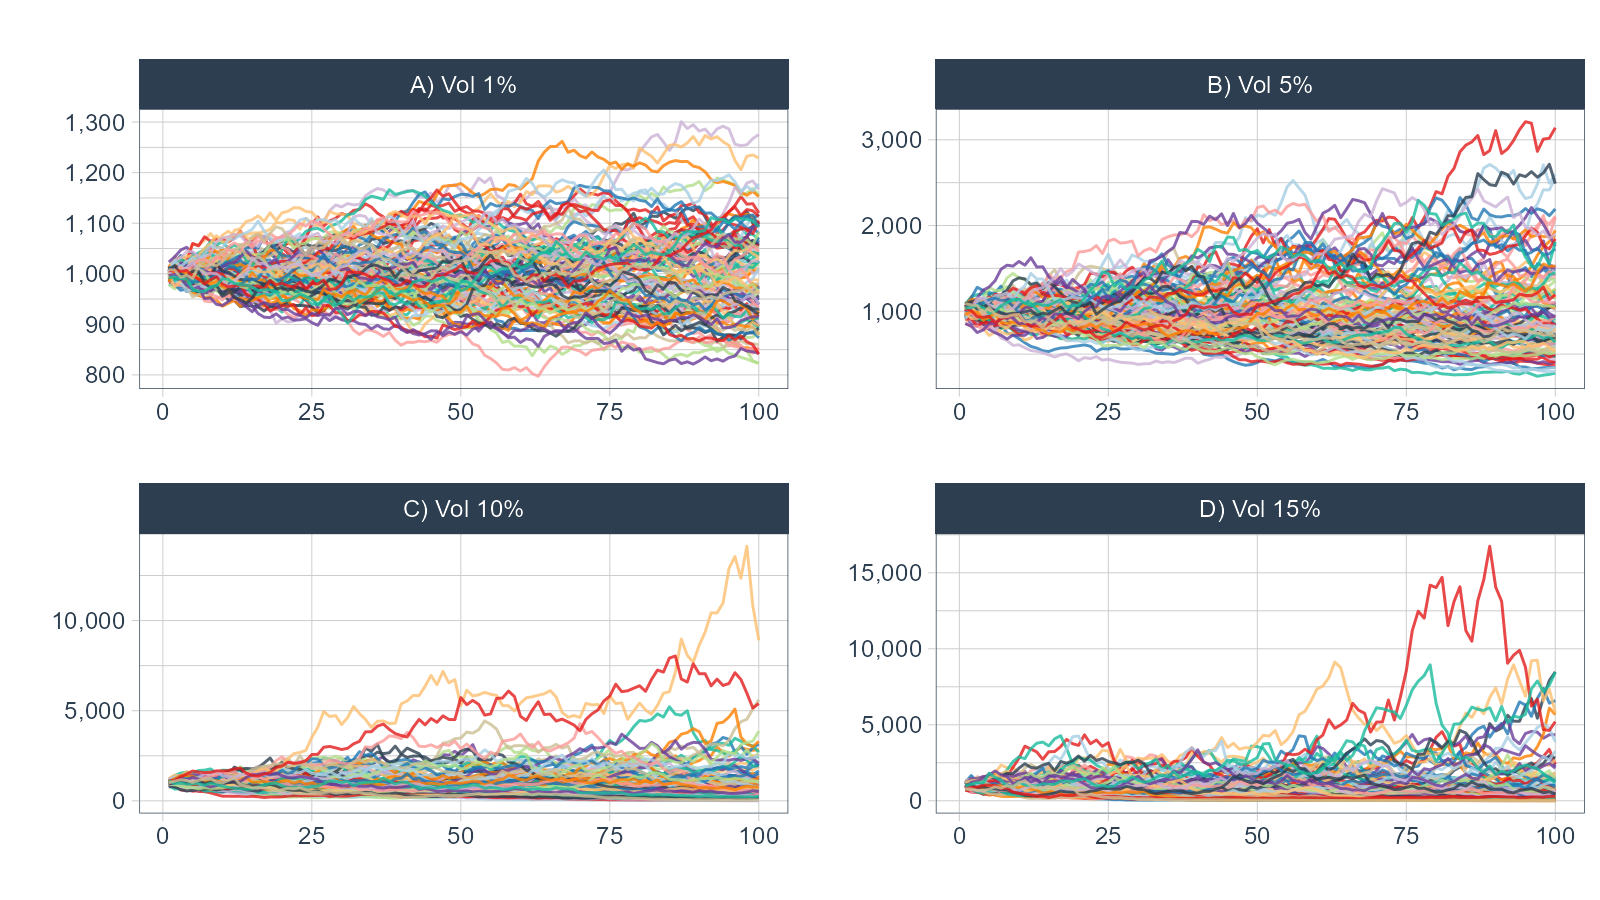
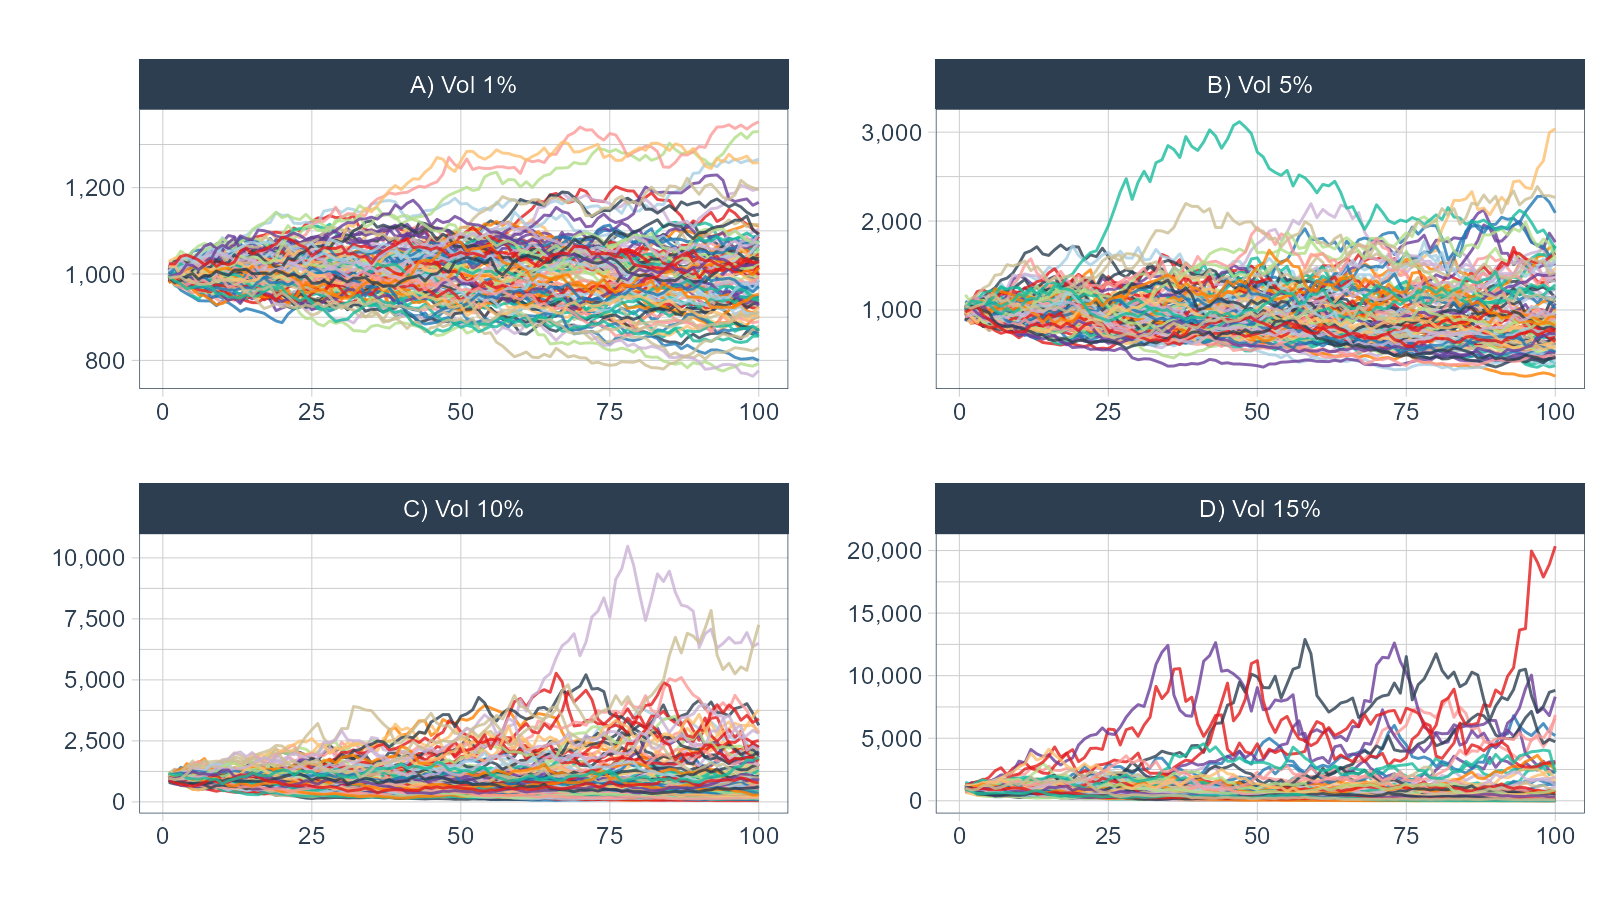
update site

diff --git a/docs/articles/getting-started.html b/docs/articles/getting-started.html
@@ -114,19 +114,19 @@
 <span class="co">#&gt; # A tibble: 6 x 4</span>
 <span class="co">#&gt;     run     x       y cum_y</span>
 <span class="co">#&gt;   &lt;dbl&gt; &lt;dbl&gt;   &lt;dbl&gt; &lt;dbl&gt;</span>
-<span class="co">#&gt; 1     1     1 -0.0255  974.</span>
-<span class="co">#&gt; 2     1     2 -0.147   831.</span>
-<span class="co">#&gt; 3     1     3 -0.0451  794.</span>
-<span class="co">#&gt; 4     1     4 -0.119   699.</span>
-<span class="co">#&gt; 5     1     5  0.0730  751.</span>
-<span class="co">#&gt; 6     1     6 -0.0872  685.</span>
+<span class="co">#&gt; 1     1     1  0.137  1137.</span>
+<span class="co">#&gt; 2     1     2 -0.0411 1090.</span>
+<span class="co">#&gt; 3     1     3  0.159  1264.</span>
+<span class="co">#&gt; 4     1     4 -0.119  1114.</span>
+<span class="co">#&gt; 5     1     5 -0.0975 1006.</span>
+<span class="co">#&gt; 6     1     6  0.137  1143.</span>
 <span class="fu"><a href="https://pillar.r-lib.org/reference/glimpse.html">glimpse</a></span><span class="op">(</span><span class="va">df</span><span class="op">)</span>
 <span class="co">#&gt; Rows: 10,000</span>
 <span class="co">#&gt; Columns: 4</span>
 <span class="co">#&gt; $ run   &lt;dbl&gt; 1, 1, 1, 1, 1, 1, 1, 1, 1, 1, 1, 1, 1, 1, 1, 1, 1, 1, 1, 1, 1, 1~</span>
 <span class="co">#&gt; $ x     &lt;dbl&gt; 1, 2, 3, 4, 5, 6, 7, 8, 9, 10, 11, 12, 13, 14, 15, 16, 17, 18, 1~</span>
-<span class="co">#&gt; $ y     &lt;dbl&gt; -0.025548244, -0.146928008, -0.045139087, -0.118766621, 0.072954~</span>
-<span class="co">#&gt; $ cum_y &lt;dbl&gt; 974.4518, 831.2775, 793.7544, 699.4829, 750.5131, 685.0854, 813.~</span></code></pre></div>
+<span class="co">#&gt; $ y     &lt;dbl&gt; 0.137168457, -0.041079079, 0.159460636, -0.118638261, -0.0974769~</span>
+<span class="co">#&gt; $ cum_y &lt;dbl&gt; 1137.1685, 1090.4546, 1264.3392, 1114.3402, 1005.7177, 1143.0023~</span></code></pre></div>
 <p>Now that the data has been generated, lets take a look at it.</p>
 <div class="sourceCode" id="cb3"><pre class="downlit sourceCode r">
 <code class="sourceCode R"><span class="va">df</span> <span class="op">%&gt;%</span>

diff --git a/docs/reference/index.html b/docs/reference/index.html
@@ -281,6 +281,12 @@
           <p><code><a href="ts_wfs_lin_reg.html">ts_wfs_lin_reg()</a></code> </p>
         </td>
         <td><p>Linear Regression Workflowset Function</p></td>
+      </tr><tr>
+        
+        <td>
+          <p><code><a href="ts_wfs_mars.html">ts_wfs_mars()</a></code> </p>
+        </td>
+        <td><p>MARS (Earth) Workflowset Function</p></td>
       </tr>
     </tbody><tbody>
       <tr>
